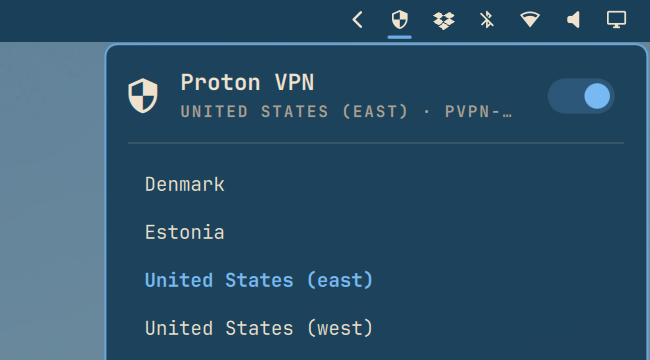
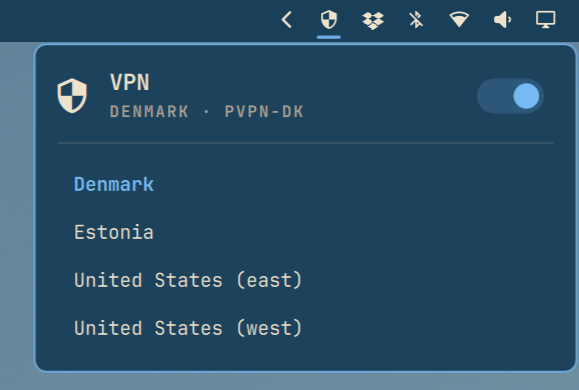
README: new panel screenshot, off-state bar screenshot and switching demo GIF

diff --git a/README.md b/README.md
@@ -4,7 +4,7 @@ A VPN switch for your Omarchy top bar. Turn Proton VPN on and off, and pick a co
 
 Works with Proton VPN. Unofficial, not affiliated with Proton AG.
 
-![The pvpn panel in the Omarchy bar](docs/panel.png)
+![The VPN panel open from the Omarchy top bar, connected to Denmark, with a list of locations to switch to](docs/panel.png)
 
 > [!CAUTION]
 > **No kill switch.**
@@ -66,6 +66,14 @@ That's it. Click the shield.
 Shield not showing? Run `omarchy-restart-shell`. Can't connect? See [Good to know](#good-to-know).
 
 ## Using it
+
+The shield in your top bar shows the VPN's state at a glance. A bright shield means you're connected. A dimmed shield with a line through it means the VPN is off:
+
+![The Omarchy top bar with the dimmed, struck-through shield showing the VPN is off](docs/bar-off.png)
+
+Switching location takes two clicks:
+
+![Clicking the shield, picking United States (east), and the "Connected" notification appearing](docs/demo.gif)
 
 - Click the shield to open the panel.
 - The switch at the top turns the VPN on or off.
